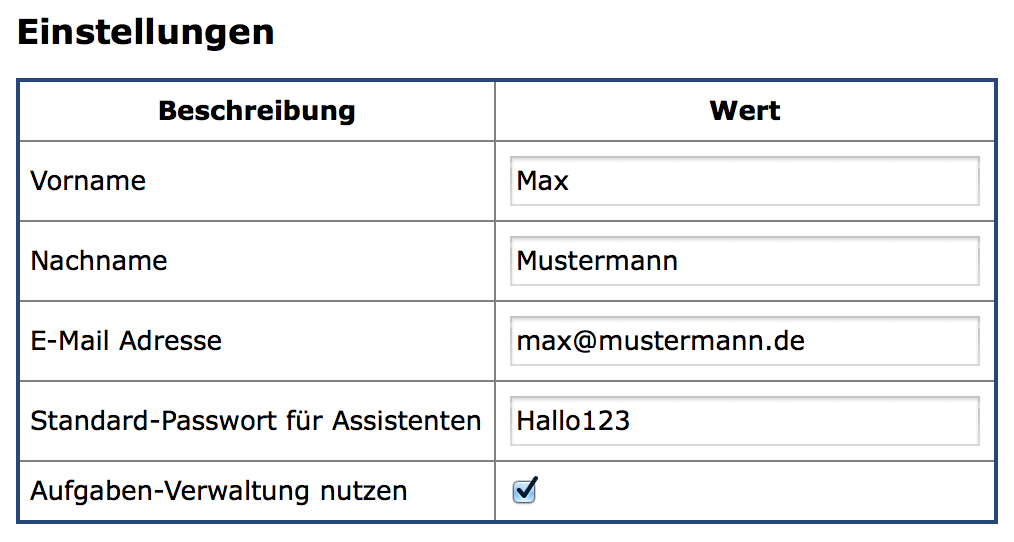
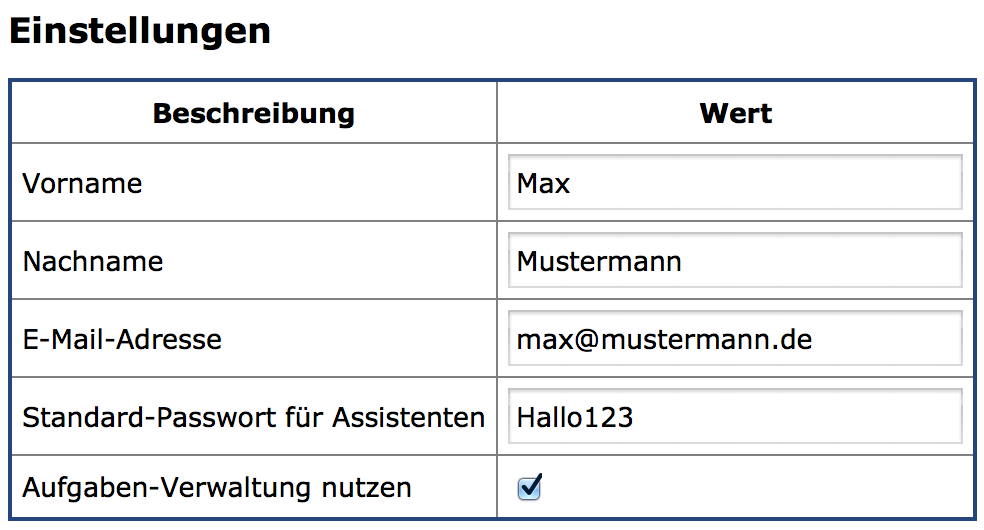
E-Mail Adresse -> E-Mail-Adresse

Changed region(s): [[0.0, 0.1208, 1.0, 0.9962], [0.0, 0.0302, 0.2744, 0.0906]]

diff --git a/PHP/settingsView.php b/PHP/settingsView.php
@@ -24,7 +24,7 @@ if ($_SESSION['isClient']) {
     echo '<tr><th>Beschreibung</th><th>Wert</th></tr>';
     echo '<tr><td class="left">Vorname</td><td><input id="firstName" type="text" size="30" maxlength="50" value="' . $settings->adminFirstName . '"/></td></tr>';
     echo '<tr><td class="left">Nachname</td><td><input id="lastName"  type="text" size="30" maxlength="50" value="' . $settings->adminLastName . '"/></td></tr>';
-    echo '<tr><td class="left">E-Mail Adresse</td><td><input id="mailAddress"  type="text" size="30" maxlength="50" value="' . $settings->mailAddress . '"/></td></tr>';
+    echo '<tr><td class="left">E-Mail-Adresse</td><td><input id="mailAddress"  type="text" size="30" maxlength="50" value="' . $settings->mailAddress . '"/></td></tr>';
     echo '<tr><td class="left">Standard-Passwort für Assistenten</td><td><input id="standardPassword"  type="text" size="30" maxlength="50" value="' . $settings->standardPassword . '"/></td></tr>';
 
     echo '<tr><td class="left">Aufgaben-Verwaltung nutzen</td><td class="left"><input id="showToDoManager" type="checkbox" value=""';
